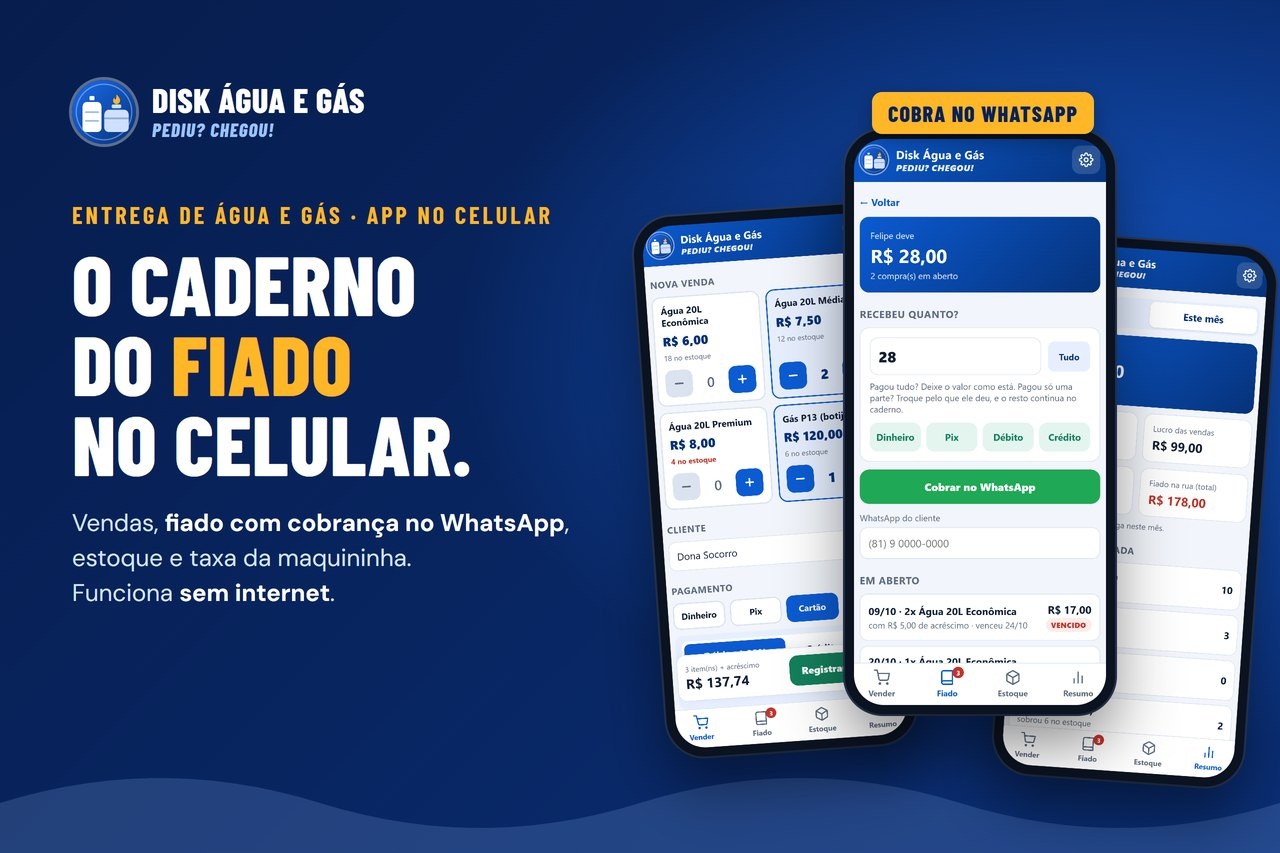
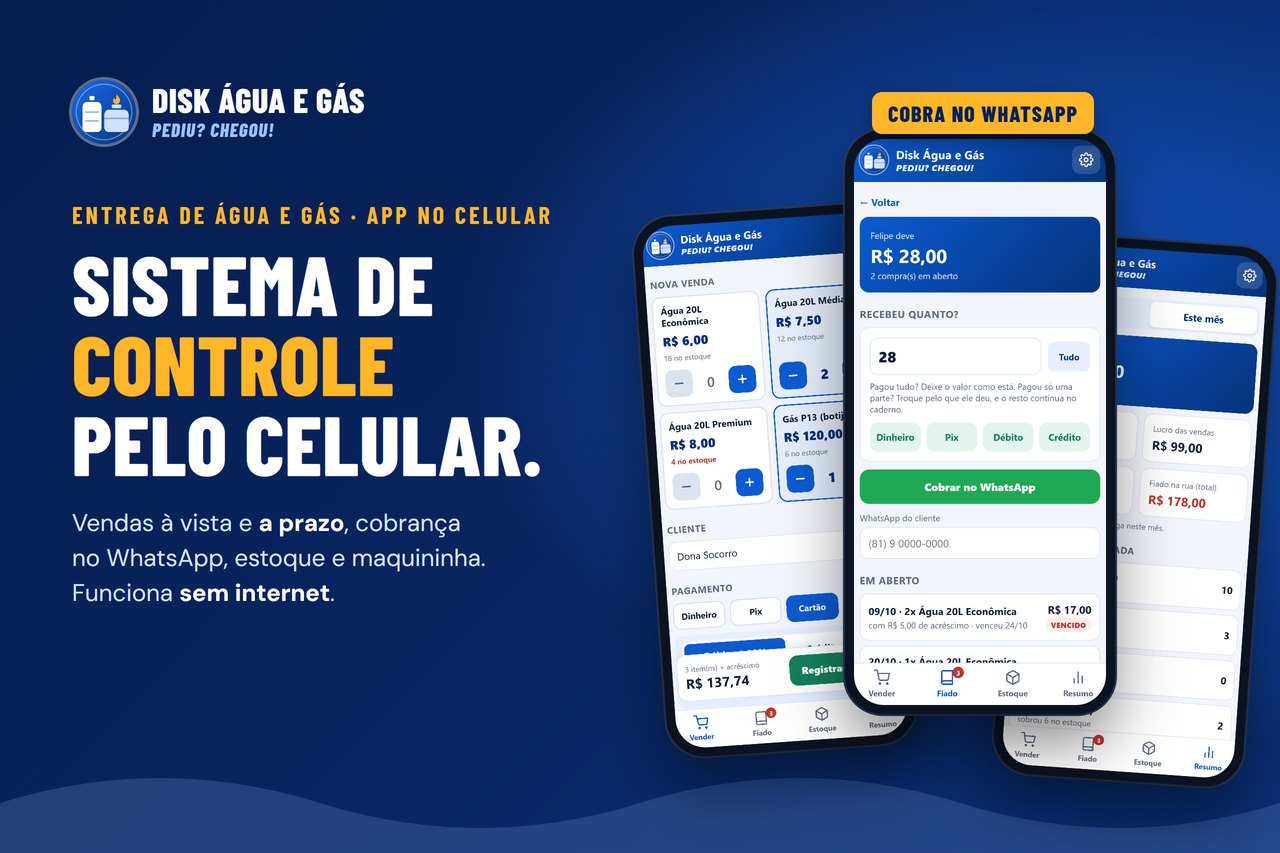
Portfólio: Disk Água e Gás como sistema de controle pelo celular (sem "fiado")

Changed region(s): [[0.0312, 0.3048, 0.4375, 0.6706]]

diff --git a/index.html b/index.html
@@ -484,14 +484,14 @@
         </div>
         <div class="project-card reveal" data-categoria="lojas">
           <div class="project-image">
-            <img src="assets/images/disk-agua-e-gas-1280.jpg?v=2" srcset="assets/images/disk-agua-e-gas-720.jpg?v=2 720w, assets/images/disk-agua-e-gas-1280.jpg?v=2 1280w, assets/images/disk-agua-e-gas-2560.jpg?v=2 2560w" sizes="(max-width: 640px) 90vw, 360px" alt="App Disk Água e Gás em três celulares: venda, fiado e resumo" loading="lazy" onerror="this.onerror=null;this.src='assets/images/placeholder.svg';">
+            <img src="assets/images/disk-agua-e-gas-1280.jpg?v=3" srcset="assets/images/disk-agua-e-gas-720.jpg?v=3 720w, assets/images/disk-agua-e-gas-1280.jpg?v=3 1280w, assets/images/disk-agua-e-gas-2560.jpg?v=3 2560w" sizes="(max-width: 640px) 90vw, 360px" alt="App Disk Água e Gás em três celulares: venda, fiado e resumo" loading="lazy" onerror="this.onerror=null;this.src='assets/images/placeholder.svg';">
             <div class="project-image-overlay"></div>
             <span class="project-badge">Em desenvolvimento</span>
           </div>
           <div class="project-content">
             <h3 class="project-title">Disk Água e Gás</h3>
-            <div class="project-highlight"><i class="fas fa-circle-check"></i> O caderno do fiado vira app e cobra o cliente pelo WhatsApp</div>
-            <p class="project-desc">Sistema no celular para entregador de água mineral e gás: vendas, fiado com pagamento parcial, estoque, taxa da maquininha e resumo do dia. Funciona sem internet.</p>
+            <div class="project-highlight"><i class="fas fa-circle-check"></i> Controle de vendas, estoque e contas a receber pelo celular</div>
+            <p class="project-desc">Sistema no celular para entregador de água mineral e gás: vendas à vista e a prazo com cobrança no WhatsApp, estoque, taxa da maquininha e resumo do dia. Funciona sem internet.</p>
             <div class="project-links">
               <a href="https://disk-agua-e-gas.pages.dev/" class="project-link primary" target="_blank" rel="noopener noreferrer">
                 <i class="fas fa-external-link-alt"></i> Ver Sistema
